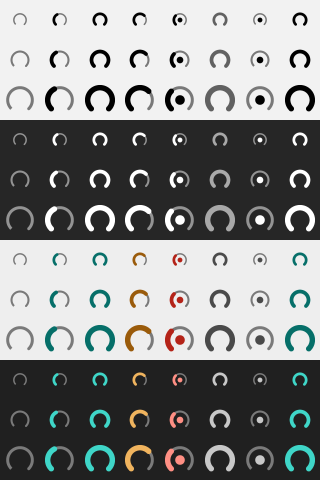
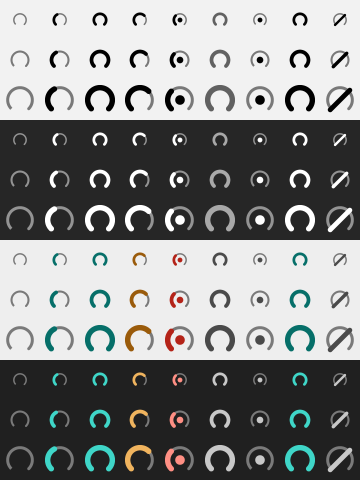
feat(network): show when the connection is offline
When the OS reports no usable path, the popover keeps the last result
but shows "No internet since 14:02" and disables Test, and the tray
gauge is crossed out. The offline time is kept until the path comes
back, so a flapping update does not reset it. Times follow the
system's 12 or 24 hour clock.

diff --git a/src/components/ResultView.vue b/src/components/ResultView.vue
@@ -8,6 +8,7 @@ const props = defineProps<{ view: View; now: number; busy?: boolean; confirming?
 defineEmits<{ test: [confirmed: boolean]; dismiss: [] }>()
 const notNow = ref<HTMLButtonElement | null>(null)
 const metered = computed(() => props.view.network.metered)
+const offline = computed(() => !props.view.network.online)
 const note = computed(() => metered.value ? `${meteredLabel[metered.value]} · ${estimateText(props.view.estimate)}` : estimateText(props.view.estimate))
 watch(() => props.confirming, async open => {
   if (!open) return
@@ -77,7 +78,8 @@ const varied = computed(() => report.value?.download.varied ? `Varied ${formatMb
       </section>
     </template>
 
-    <section v-if="confirming && metered" class="confirm" role="alertdialog" aria-labelledby="confirm-title" aria-describedby="confirm-detail">
+    <p v-if="offline" class="offline-pill" role="status"><AppIcon name="offline" :size="15"/><span class="num">{{ view.network.offlineSinceMs ? `No internet since ${clock(view.network.offlineSinceMs)}` : 'No internet' }}</span></p>
+    <section v-if="confirming && metered && !offline" class="confirm" role="alertdialog" aria-labelledby="confirm-title" aria-describedby="confirm-detail">
       <p id="confirm-title" class="confirm-title"><AppIcon name="alert" :size="15"/>{{ meteredCopy[metered] }}</p>
       <p id="confirm-detail" class="confirm-detail num">{{ estimateText(view.estimate) }} of your data.</p>
       <div class="confirm-actions">
@@ -87,7 +89,7 @@ const varied = computed(() => report.value?.download.varied ? `Varied ${formatMb
     </section>
     <footer v-else class="foot">
       <span class="note num" :class="{ 'note-warning': metered }">{{ note }}</span>
-      <button class="button button-primary" :disabled="busy" @click="$emit('test', false)"><AppIcon name="play" :size="13"/>{{ report || failure ? (failure ? 'Try again' : 'Test again') : 'Test' }}</button>
+      <button class="button button-primary" :disabled="busy || offline" @click="$emit('test', false)"><AppIcon name="play" :size="13"/>{{ report || failure ? (failure ? 'Try again' : 'Test again') : 'Test' }}</button>
     </footer>
   </div>
 </template>

diff --git a/src/lib/demo.ts b/src/lib/demo.ts
@@ -1,6 +1,6 @@
 import { viewSchema, type Report, type View } from './model.ts'
 
-export const demoStates = ['never', 'result', 'testing', 'testing-latency', 'testing-upload', 'failed', 'metered'] as const
+export const demoStates = ['never', 'result', 'testing', 'testing-latency', 'testing-upload', 'failed', 'metered', 'offline'] as const
 export type DemoState = (typeof demoStates)[number]
 
 const minute = 60_000
@@ -43,6 +43,7 @@ export function createDemoView(state: string | null, now = Date.now()): View {
     view.testing = { phase: 'upload', phaseMs: 2_900, liveMbps: 39.6, downloadMbps: 312.4, latencyMs: 14, loadedMs: 51, bytesUsed: 214_000_000, colo: 'FRA' }
   }
   if (scenario === 'metered') view.network.metered = 'hotspot'
+  if (scenario === 'offline') view.network = { online: false, metered: null, offlineSinceMs: new Date(now).setHours(14, 2, 0, 0) }
   if (scenario === 'failed') {
     view.failure = { error: 'stalled', atMs: now - 2 * minute }
     if (view.last) view.last = { ...view.last, startedAtMs: now - 3 * 60 * minute }

diff --git a/tests/e2e/popover.spec.ts b/tests/e2e/popover.spec.ts
@@ -69,6 +69,16 @@ for (const theme of themes) {
   })
 }
 
+for (const theme of themes) {
+  test(`offline keeps the last result and disables Test in ${theme}`, async ({ page }, info) => {
+    await page.goto(`/?demo=1&state=offline&theme=${theme}`)
+    await expect(page.getByRole('status')).toContainText('No internet since')
+    await expect(page.getByRole('button', { name: 'Test again' })).toBeDisabled()
+    await expect(page.getByLabel('Download 312 megabits per second')).toBeVisible()
+    await shoot(page, 'offline', info.outputPath(`offline-${theme}.png`))
+  })
+}
+
 test('a simulated run goes from Test to a settled result', async ({ page }) => {
   await page.clock.install()
   await page.goto('/?demo=1&state=never')

diff --git a/src/styles.css b/src/styles.css
@@ -287,6 +287,18 @@ button:focus-visible, a:focus-visible, input:focus-visible, select:focus-visible
   font-size: 12.5px;
   color: var(--tertiary);
 }
+.offline-pill {
+  display: flex;
+  align-items: center;
+  gap: 8px;
+  margin: 10px 0 0;
+  padding: 9px 11px;
+  border-radius: 8px;
+  background: var(--danger-soft);
+  color: var(--danger);
+  font-size: 13px;
+  font-weight: 500;
+}
 .note-warning {
   color: var(--warning);
 }

diff --git a/src/lib/format.ts b/src/lib/format.ts
@@ -30,7 +30,7 @@ export function relativeAge(at: number, now: number): string {
 }
 
 export function clock(at: number): string {
-  return new Date(at).toLocaleTimeString([], { hour: '2-digit', minute: '2-digit' })
+  return new Date(at).toLocaleTimeString([], { hour: 'numeric', minute: '2-digit' })
 }
 
 const cities: Record<string, string> = {

diff --git a/src-tauri/src/core/ring.rs b/src-tauri/src/core/ring.rs
@@ -20,6 +20,8 @@ pub enum Glyph {
     Result { health: Health, stale: bool },
     /// Last test failed: empty gauge with a centre dot.
     Failed,
+    /// No internet: empty gauge crossed by a slash.
+    Offline,
 }
 
 #[derive(Clone, Copy, PartialEq)]
@@ -73,7 +75,7 @@ fn fill(glyph: Glyph) -> Option<f64> {
             Health::Fair => 2.0 / 3.0,
             Health::Poor => 1.0 / 3.0,
         }),
-        Glyph::Failed => Some(0.0),
+        Glyph::Failed | Glyph::Offline => Some(0.0),
     }
 }
 
@@ -91,6 +93,14 @@ fn part_at(dx: f64, dy: f64, size: f64, glyph: Glyph) -> Option<Part> {
     );
     if mark && radius <= DOT * size {
         return Some(Part::Mark);
+    }
+    if glyph == Glyph::Offline {
+        let half = OUTER * size * 0.92;
+        let along_slash = ((dx - dy) / 2.0).clamp(-half / 2.0_f64.sqrt(), half / 2.0_f64.sqrt());
+        let distance = (dx - along_slash).hypot(dy + along_slash);
+        if distance <= STROKE * size * 0.45 {
+            return Some(Part::Mark);
+        }
     }
     let turn = (dy.atan2(dx) + FRAC_PI_2).rem_euclid(TAU) / TAU;
     let along = (turn - START).rem_euclid(1.0);
@@ -126,7 +136,7 @@ fn color(part: Part, glyph: Glyph, style: IconStyle) -> ([u8; 3], f64) {
     };
     let rgb = match (part, glyph) {
         (Part::Track, _) => palette.track,
-        (_, Glyph::Unknown | Glyph::Failed) => palette.neutral,
+        (_, Glyph::Unknown | Glyph::Failed | Glyph::Offline) => palette.neutral,
         (_, Glyph::Testing(_)) => palette.progress,
         (_, Glyph::Result { stale: true, .. }) => palette.neutral,
         (_, Glyph::Result { health, .. }) => match health {

diff --git a/src-tauri/src/core/tray.rs b/src-tauri/src/core/tray.rs
@@ -286,6 +286,9 @@ pub fn glyph(view: &View, now_ms: u64) -> Glyph {
     if let Some(progress) = &view.testing {
         return Glyph::Testing(progress_fraction(progress));
     }
+    if !view.network.online {
+        return Glyph::Offline;
+    }
     let failed_last = view.failure.as_ref().is_some_and(|failure| {
         view.last
             .as_ref()
@@ -304,6 +307,7 @@ pub fn glyph(view: &View, now_ms: u64) -> Glyph {
 fn tooltip(view: &View, glyph: Glyph) -> String {
     match (glyph, &view.last) {
         (Glyph::Testing(_), _) => "Weir · Testing".into(),
+        (Glyph::Offline, _) => "Weir · No internet".into(),
         (Glyph::Failed, _) => "Weir · Last test failed".into(),
         (Glyph::Result { stale, .. }, Some(report)) => format!(
             "Weir · Download {:.0} Mbps{}",
@@ -494,5 +498,7 @@ mod tests {
         assert_eq!(glyph(&view, now), Glyph::Failed);
         view.last = Some(report(now));
         assert!(matches!(glyph(&view, now), Glyph::Result { .. }));
+        view.network.online = false;
+        assert_eq!(glyph(&view, now), Glyph::Offline);
     }
 }

diff --git a/src-tauri/src/core/ring/tests.rs b/src-tauri/src/core/ring/tests.rs
@@ -1,7 +1,7 @@
 use super::*;
 
 const SIZES: [u32; 3] = [16, 22, 32];
-const GLYPHS: [(&str, Glyph); 8] = [
+const GLYPHS: [(&str, Glyph); 9] = [
     ("unknown", Glyph::Unknown),
     ("testing", Glyph::Testing(0.4)),
     (
@@ -34,6 +34,7 @@ const GLYPHS: [(&str, Glyph); 8] = [
     ),
     ("failed", Glyph::Failed),
     ("done", Glyph::Testing(1.0)),
+    ("offline", Glyph::Offline),
 ];
 
 struct Case {
@@ -176,6 +177,17 @@ fn health_shows_as_fill_and_poor_adds_a_centre_dot() {
     assert_ne!(
         glyph_rgba(32, Glyph::Unknown, IconStyle::Template),
         glyph_rgba(32, Glyph::Testing(0.0), IconStyle::Template)
+    );
+}
+
+#[test]
+fn offline_is_crossed_out() {
+    assert_eq!(alpha_at(32, Glyph::Offline, 0.5, 0.5), 255);
+    assert_eq!(alpha_at(32, Glyph::Offline, 0.38, 0.38), 0);
+    assert_eq!(alpha_at(32, Glyph::Offline, 0.7, 0.3), 255);
+    assert_ne!(
+        glyph_rgba(32, Glyph::Offline, IconStyle::Template),
+        glyph_rgba(32, Glyph::Failed, IconStyle::Template)
     );
 }
 

diff --git a/docs/plan.md b/docs/plan.md
@@ -62,8 +62,9 @@ Written 2026-10-23 from [research.md](research.md), [method.md](method.md) and t
 - [x] **2.1 Metered guard.** `core/metered.rs`: macOS `nw_path_monitor` (expensive, constrained, satisfied) via a small `extern "C"` binding; Windows `GetInternetConnectionProfile().GetConnectionCost()` (Unknown = metered). Test button asks first with the data estimate.
   Verify: unit tests on the decision table; e2e for the metered confirm state; manual check on this Mac's hotspot (no test run) 👤-free.
   Done 2026-10-23: `core/network.rs` decision table (hotspot, Low Data Mode, metered/unknown cost, roaming, over limit), `platform/macos.rs` via Network.framework `nw_path_monitor` (~60 lines, no crate), `platform/windows.rs` via `ConnectionProfile.GetConnectionCost` + `NetworkStatusChanged` (compiles in CI only). Rust refuses `start_test` on a metered link without `confirmed`. On this Mac the watcher reports `metered=Hotspot` (no test run). A change of interface or online state mid-test aborts it.
-- [ ] **2.2 Offline state.** Path unsatisfied → "No internet since 14:02", Test disabled, tray ring broken. Network change during a test aborts it.
+- [x] **2.2 Offline state.** Path unsatisfied → "No internet since 14:02", Test disabled, tray ring broken. Network change during a test aborts it.
   Verify: unit test on transitions; e2e for offline.
+  Done 2026-10-23: `Network::next` keeps the first offline time until the path is back; popover shows "No internet since 14:02" (locale clock) above a disabled Test button and keeps the last result; tray shows the gauge crossed by a slash.
 - [ ] **2.3 Plain meaning.** Headline sentence and per-topic lines from method.md rules under the result.
   Verify: unit tests per threshold boundary; e2e for good, calls-stutter and slow results.
 - [ ] **2.4 Every failure state designed.** Failed (each validity message), cancelled, stale result (> 24 h: "Tested 2 days ago"), cap hit, "varied" range, latency not measured.
